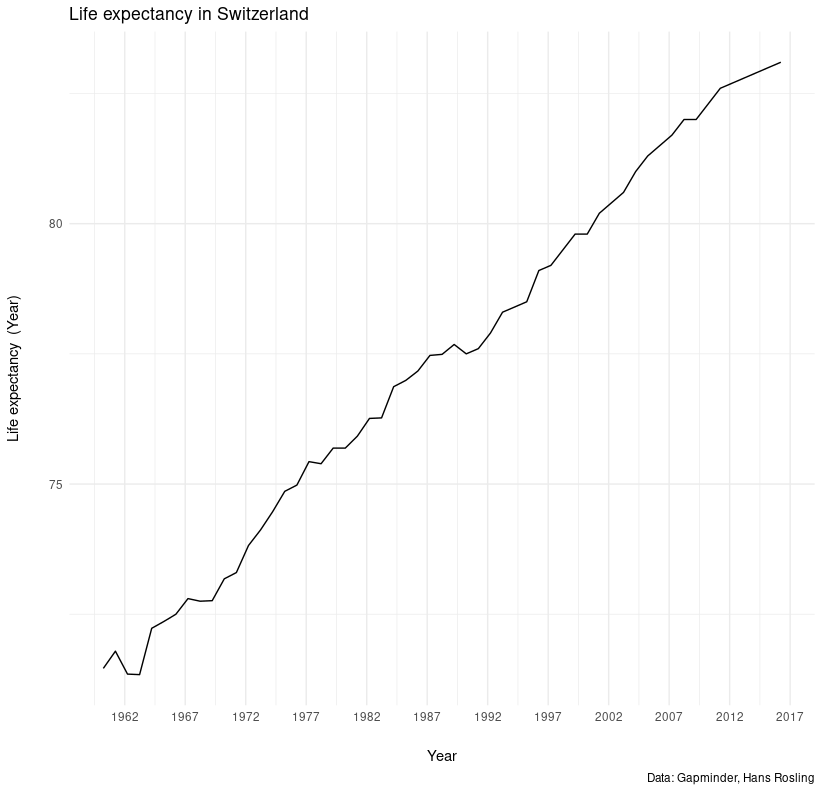
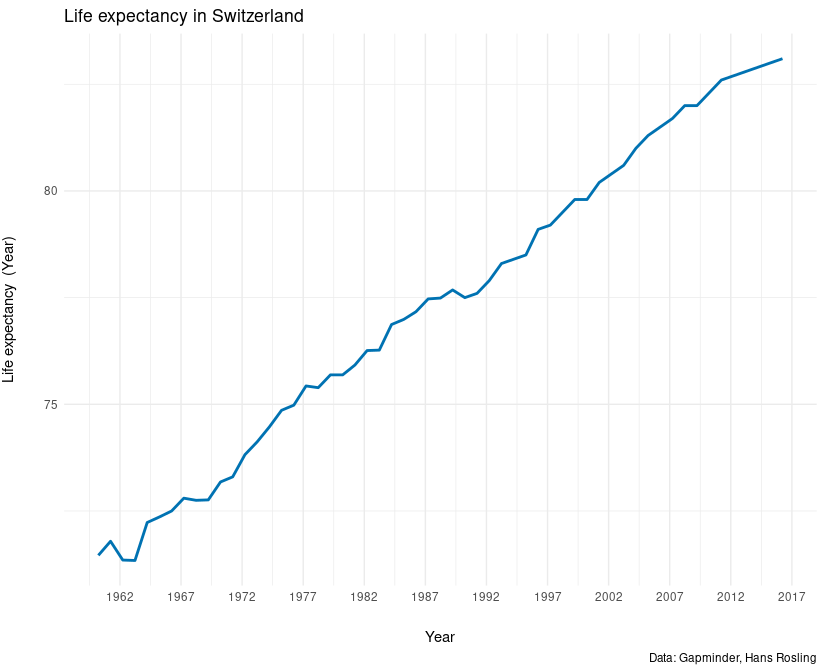
add rescale ts in ggplot2 extension

diff --git a/slides/chapter5_08.md b/slides/chapter5_08.md
@@ -26,7 +26,7 @@ rm(list=ls())
 library(quantmod)
 library(ggfortify)
 library(janitor)
-getSymbols(c("AAPL", "TSLA", "GOOGL"), from = "2019-01-01")
+getSymbols(c("AAPL", "TSLA", "GOOGL", "BABA"), from = "2019-01-01")
 tsl_price_df = fortify(TSLA) %>% clean_names()
 head(tsl_price_df)
 ```
@@ -112,6 +112,21 @@ df_2 = dplyr::left_join(googl_price_df, df_1, by = "index")
 df_stocks = dplyr::left_join(df_2, baba_price_df, by = "index")
 df_stocks = df_stocks %>% select(index, aapl_close, googl_close, baba_close, tsla_close)
 head(df_stocks)
+```
+
+```out
+       index aapl_close googl_close baba_close tsla_close
+1 2019-01-02    39.4800     1054.68     136.70     62.024
+2 2019-01-03    35.5475     1025.47     130.60     60.072
+3 2019-01-04    37.0650     1078.07     139.75     63.538
+4 2019-01-07    36.9825     1075.92     143.10     66.992
+5 2019-01-08    37.6875     1085.37     146.79     67.070
+6 2019-01-09    38.3275     1081.65     151.92     67.706
+```
+
+---
+
+```R
 df_stocks_long = tidyr::pivot_longer(df_stocks, col = !index)
 head(df_stocks_long)
 ```
@@ -126,7 +141,6 @@ head(df_stocks_long)
 5 2019-01-03 aapl_close    35.5
 6 2019-01-03 googl_close 1025. 
 ```
-
 
 ---
 
@@ -187,6 +201,71 @@ anim_save("stocks.gif", animation = stocks_plot_anim)
 
 
 <div style="text-align:center"><img src="stocks.gif" alt=" " width="40%"></div>
+
+
+---
+
+We now resale the four time series by their first value, so we can compare their percent change since the first January 2019.
+
+```R
+df_stocks$aapl_close = df_stocks$aapl_close / df_stocks[1, "aapl_close"]
+df_stocks$googl_close = df_stocks$googl_close / df_stocks[1, "googl_close"]
+df_stocks$baba_close = df_stocks$baba_close / df_stocks[1, "baba_close"]
+df_stocks$tsla_close = df_stocks$tsla_close / df_stocks[1, "tsla_close"]
+df_stocks_long2 = tidyr::pivot_longer(df_stocks, col = !index)
+head(df_stocks_long2)
+```
+
+```out
+  index      name        value
+  <date>     <chr>       <dbl>
+1 2019-01-02 aapl_close  1    
+2 2019-01-02 googl_close 1    
+3 2019-01-02 baba_close  1    
+4 2019-01-02 tsla_close  1    
+5 2019-01-03 aapl_close  0.900
+6 2019-01-03 googl_close 0.972
+
+```
+
+---
+
+```R
+library(ggplot2)
+library(viridis)
+
+stocks_plot_2 = ggplot(df_stocks_long2, aes(x = index, y = value, color= name)) +
+  geom_line() +
+  theme_minimal() +
+  labs(
+    title = "Stock prices",
+    x = "Date", 
+    y = "Price ($)") + 
+  scale_x_date(date_breaks = "4 month", date_labels = "%m/%y") +
+  scale_fill_viridis(discrete = TRUE) +
+  scale_color_manual(labels = c("AAPL", "BABA", "GOOGL", "TSLA"),
+                     values = RColorBrewer::brewer.pal("Dark2", n = 4))+
+  theme(axis.title.y = element_text(margin = margin(t = 0, r = 20, b = 0, l = 0)),
+        axis.title.x = element_text(margin = margin(t = 20, r = 0, b = 0, l = 0))) +
+  labs(color = "Stocks")
+
+stocks_plot_2
+```
+
+---
+
+
+<div style="text-align:center"><img src="stocks2.png" alt=" " width="40%"></div>
+
+
+---
+
+```R
+(stocks_plot_anim2 = stocks_plot_2 + geom_point() + transition_reveal(index))
+```
+
+<div style="text-align:center"><img src="stocks3.gif" alt=" " width="40%"></div>
+
 
 
 ---

diff --git a/slides/chapter5_06.md b/slides/chapter5_06.md
@@ -8,6 +8,7 @@ Let us consider the `gapminder` dataset available in the package `dslabs` and al
 
 
 ```R
+library(dslabs)
 data(gapminder)
 head(gapminder)
 ``` 
@@ -30,7 +31,7 @@ head(gapminder)
 Let us consider the life expectancy in Switzerland for a first example.
 
 ```R
-df_ch = gapminder %>% filter(country == "Switzerland")
+df_ch = gapminder[gapminder$country == "Switzerland", ]
 df_ch$year = as.Date(as.character(df_ch$year), format = "%Y")
 head(df_ch)
 ```
@@ -62,7 +63,7 @@ ggplot(df_ch, aes(year, life_expectancy)) +
 
 ```R
 ggplot(df_ch, aes(year, life_expectancy)) +
-  geom_line() +
+  geom_line(size = 1, color = "#0072B2") +
   theme_minimal() +
   labs(
     title = "Life expectancy in Switzerland",
@@ -71,17 +72,41 @@ ggplot(df_ch, aes(year, life_expectancy)) +
     y = "Life expectancy  (Year)") + 
   scale_x_date(date_breaks = "5 year", date_labels = "%Y") +
   theme(axis.title.y = element_text(margin = margin(t = 0, r = 20, b = 0, l = 0)),
-        axis.title.x = element_text(margin = margin(t = 20, r = 0, b = 0, l = 0)))
+        axis.title.x = element_text(margin = margin(t = 20, r = 0, b = 0, l = 0))) +
+  theme(plot.margin = margin(7, 7, 3, 1.5))
   
 ```
 
 ---
 
-<div style="text-align:center"><img src="line2.png" alt=" " width="40%"></div>
+<div style="text-align:center"><img src="line2.png" alt=" " width="45%"></div>
 
 ---
 
+```R
+ggplot(df_ch, aes(year, life_expectancy)) +
+  geom_line(size = 1, color = "#0072B2") +
+  scale_y_continuous(limits = c(55, 90), expand = c(0, 0),
+                     name = "preprints / month") + 
+  theme_minimal() +
+  labs(
+    title = "Life expectancy in Switzerland",
+    caption = "Data: Gapminder, Hans Rosling",
+    x = "Year", 
+    y = "Life expectancy  (Year)") + 
+  scale_x_date(date_breaks = "5 year", date_labels = "%Y") +
+  theme(axis.title.y = element_text(margin = margin(t = 0, r = 20, b = 0, l = 0)),
+        axis.title.x = element_text(margin = margin(t = 20, r = 0, b = 0, l = 0))) +
+  theme(plot.margin = margin(7, 7, 3, 1.5))
 Let us now represent the Life expectancy over the years, comparing Canada, China, Egypt, Germany and Switzerland.
+```
+
+---
+
+<div style="text-align:center"><img src="line4.png" alt=" " width="45%"></div>
+
+---
+
 
 
 ```R
@@ -104,4 +129,4 @@ gapminder %>%
 
 ---
 
-<div style="text-align:center"><img src="line3.png" alt=" " width="40%"></div>
+<div style="text-align:center"><img src="line3.png" alt=" " width="45%"></div>

diff --git a/slides/chapter5_02.md b/slides/chapter5_02.md
@@ -77,7 +77,7 @@ ggplot(df_murders) +
 ---
 
 
-<div style="text-align:center"><img src="bar1.png" alt=" " width="50%"></div>
+<div style="text-align:center"><img src="bar1.png" alt=" " width="40%"></div>
 
 
 
@@ -95,7 +95,7 @@ ggplot(df_murders) +
 ---
 
 
-<div style="text-align:center"><img src="bar3.png" alt=" " width="50%"></div>
+<div style="text-align:center"><img src="bar3.png" alt=" " width="40%"></div>
 
 ---
 
@@ -112,7 +112,7 @@ ggplot(df_murders) +
 ---
 
 
-<div style="text-align:center"><img src="bar10.png" alt=" " width="50%"></div>
+<div style="text-align:center"><img src="bar10.png" alt=" " width="40%"></div>
 
 
 ---
@@ -143,7 +143,7 @@ ggplot(df_murders) +
 
 ---
 
-<div style="text-align:center"><img src="bar4.png" alt=" " width="50%"></div>
+<div style="text-align:center"><img src="bar4.png" alt=" " width="40%"></div>
 
 ---
 
@@ -172,7 +172,7 @@ mygraph
 
 ---
 
-<div style="text-align:center"><img src="bar11.png" alt=" " width="50%"></div>
+<div style="text-align:center"><img src="bar11.png" alt=" " width="40%"></div>
 
 ---
 
@@ -195,7 +195,7 @@ mygraph
 ---
 
 
-<div style="text-align:center"><img src="bar12.png" alt=" " width="65%"></div>
+<div style="text-align:center"><img src="bar12.png" alt=" " width="40%"></div>
 
 
 
@@ -227,7 +227,7 @@ ggplot(df_sub) +
 
 ---
 
-<div style="text-align:center"><img src="bar5.png" alt=" " width="55%"></div>
+<div style="text-align:center"><img src="bar5.png" alt=" " width="40%"></div>
 
 ---
 
@@ -246,7 +246,7 @@ ggplot(df_sub) +
 ---
 
 
-<div style="text-align:center"><img src="bar6.png" alt=" " width="55%"></div>
+<div style="text-align:center"><img src="bar6.png" alt=" " width="40%"></div>
 
 
 ---
@@ -274,4 +274,4 @@ ggplot(df_sub) +
 
 ---
 
-<div style="text-align:center"><img src="bar22.png" alt=" " width="50%"></div>
+<div style="text-align:center"><img src="bar22.png" alt=" " width="40%"></div>

diff --git a/slides/chapter5_05.md b/slides/chapter5_05.md
@@ -97,7 +97,7 @@ g3
 
 ```R
 library(magick)
-iris_png = image_read("https://raw.githack.com/SMAC-Group/course_intro_ds/master/img/iris.png")
+iris_png = image_read("https://raw.githack.com/SMAC-Group/course_intro_ds/master/img/iris2.png")
 img_iris_png = grid::rasterGrob(iris_png, interpolate = TRUE)
 g4 = g2 + 
   coord_cartesian(xlim = c(1.5, 4.75), ylim = c(2.5, 9)) +
@@ -116,7 +116,7 @@ g4
 ---
   
 
-<div style="text-align:center"><img src="scatterimg.png" alt=" " width="50%"></div>
+<div style="text-align:center"><img src="scatterimg.png" alt=" " width="55%"></div>
 
   
   
